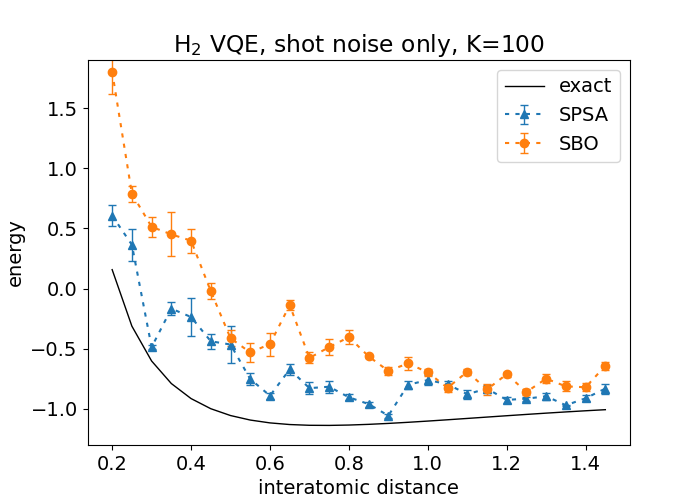
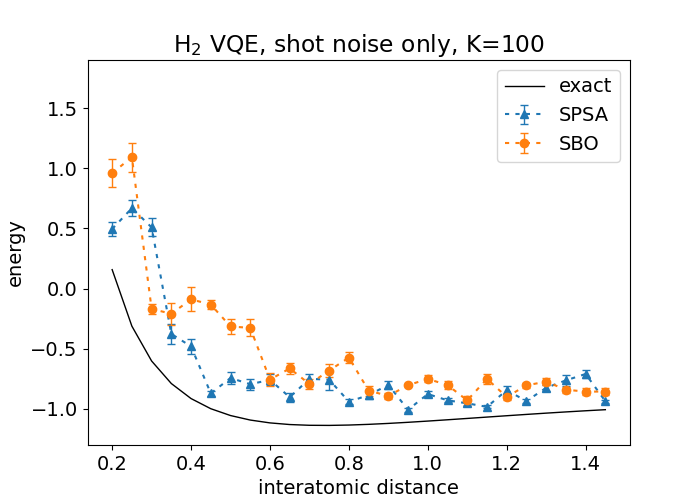
2q 4q completed

diff --git a/test_2q.py b/test_2q.py
@@ -1,4 +1,5 @@
 import os
+import time
 import numpy as np
 from scipy import optimize
 import matplotlib.pyplot as plt
@@ -27,7 +28,7 @@ from qiskit_nature.second_q.algorithms import GroundStateEigensolver
 from qiskit_algorithms import VQE
 
 # The ansatz has been updated: use UCCSD (singles and doubles)
-from qiskit_nature.second_q.circuit.library import UCCSD, HartreeFock
+from qiskit_nature.second_q.circuit.library import UCC, UCCSD, HartreeFock
 
 # Converter and mapper for transforming the fermionic problem to qubits
 from qiskit_nature.second_q.mappers import JordanWignerMapper, ParityMapper
@@ -343,6 +344,7 @@ if __name__ == "__main__":
     vqe_spsa_energies = {}
     nshots = 100
     repetition_count = 5
+    start_time = time.time()  # Start timing
 
     for distance in distances:
         exact_energies[distance] = []
@@ -361,7 +363,10 @@ if __name__ == "__main__":
             ansatz = UCCSD(
                 num_spatial_orbitals=2,
                 num_particles=(1, 1),
-                qubit_mapper=mapper
+                qubit_mapper=mapper,
+                initial_state=HartreeFock(
+                    2,(1,1),mapper,
+                )
             )
             # Exact solver
             numpy_solver = NumPyMinimumEigensolver()
@@ -369,14 +374,14 @@ if __name__ == "__main__":
 
             # VQE using our custom surrogate-based optimizer (SBO)
             sbo_optimizer = Optimizer(
-                maxiter=4,
+                maxiter=20,
                 patch_size=0.15,
                 npoints_per_patch=4,
                 nfev_final_avg=4
             )
             vqe_solver = VQE(
                 Estimator(backend_options={
-                    "method": "density_matrix",
+                    "method": "automatic",
                     "device": "GPU"  # directs simulation to the GPU
                 }), ansatz,
                 optimizer=sbo_optimizer
@@ -384,15 +389,10 @@ if __name__ == "__main__":
             vqe_sbo_energies[distance].append(solve(vqe_solver))
 
             # VQE with SPSA optimizer on ideal simulator, num function evals=20
-            ansatz = UCCSD(
-                num_spatial_orbitals=2,
-                num_particles=(1, 1),
-                qubit_mapper=mapper
-            )
-            spsa_optimizer = SPSA(maxiter=10)
+            spsa_optimizer = SPSA(maxiter=20)
             vqe_solver = VQE(
                 Estimator(backend_options={
-                    "method": "density_matrix",
+                    "method": "automatic",
                     "device": "GPU"  # directs simulation to the GPU
                 }), ansatz,
                 optimizer=spsa_optimizer
@@ -404,6 +404,11 @@ if __name__ == "__main__":
               f"SPSA: {np.mean(vqe_spsa_energies[distance]):.6f}, " + 
               f"Exact Result: {np.mean(exact_energies[distance]):.6f}")
         
+    end_time = time.time()
+    execution_time = end_time - start_time
+    print(f"\nTotal execution time: {execution_time:.2f} seconds")
+    print(f"                      {execution_time/60:.2f} minutes")
+            
     plt.figure(figsize=(7, 5))
     plt.rcParams['font.size'] = 14
     plt.plot(distances, np.mean(list(exact_energies.values()), axis=1), 'k-', linewidth=1, label='exact')
@@ -414,5 +419,5 @@ if __name__ == "__main__":
     plt.xlabel('interatomic distance')
     plt.ylabel('energy')
     plt.ylim(-1.3, 1.9)
-    plt.title(r"H$_2$ VQE, shot noise only, K=100")
+    plt.title(rf"H$_2$ VQE, shot noise only, K=100, Time: {execution_time:.1f}s")
     save_figure("H2_VQE_2q")

diff --git a/test_4q.py b/test_4q.py
@@ -35,6 +35,12 @@ from qiskit_nature.second_q.mappers import JordanWignerMapper, ParityMapper
 # Define the electronic structure problem (same name, but under the updated package)
 from qiskit_nature.second_q.problems import ElectronicStructureProblem
 
+from qiskit_ionq import IonQProvider
+
+provider = IonQProvider(token="12781dfb-bf64-46ec-96fe-40a7499f14f3")
+#qpu_backend = provider.get_backend("qpu.aria-1")
+print(provider.backends())
+
 # Type alias for points (can be a float or an array)
 POINT = Union[float, np.ndarray]
 # Create an instance of AerSimulator (here, specifying GPU)
@@ -361,7 +367,10 @@ if __name__ == "__main__":
             ansatz = UCCSD(
                 num_spatial_orbitals=2,
                 num_particles=(1,1),
-                qubit_mapper=mapper
+                qubit_mapper=mapper,
+                initial_state=HartreeFock(
+                    2,(1,1),mapper,
+                )
             )
             # Exact solver
             numpy_solver = NumPyMinimumEigensolver()
@@ -369,14 +378,14 @@ if __name__ == "__main__":
 
             # VQE using our custom surrogate-based optimizer (SBO)
             sbo_optimizer = Optimizer(
-                maxiter=4,
-                patch_size=0.15,
+                maxiter=20,
+                patch_size=0.3,
                 npoints_per_patch=4,
                 nfev_final_avg=4
             )
             vqe_solver = VQE(
                 Estimator(backend_options={
-                    "method": "density_matrix",
+                    "method": "automatic",
                     "device": "GPU"  # directs simulation to the GPU
                 }), ansatz,
                 optimizer=sbo_optimizer
@@ -384,10 +393,10 @@ if __name__ == "__main__":
             vqe_sbo_energies[distance].append(solve(vqe_solver))
 
             # VQE with SPSA optimizer on ideal simulator, num function evals=20
-            spsa_optimizer = SPSA(maxiter=10)
+            spsa_optimizer = SPSA(maxiter=20)
             vqe_solver = VQE(
                 Estimator(backend_options={
-                    "method": "density_matrix",
+                    "method": "automatic",
                     "device": "GPU"  # directs simulation to the GPU
                 }), ansatz,
                 optimizer=spsa_optimizer
